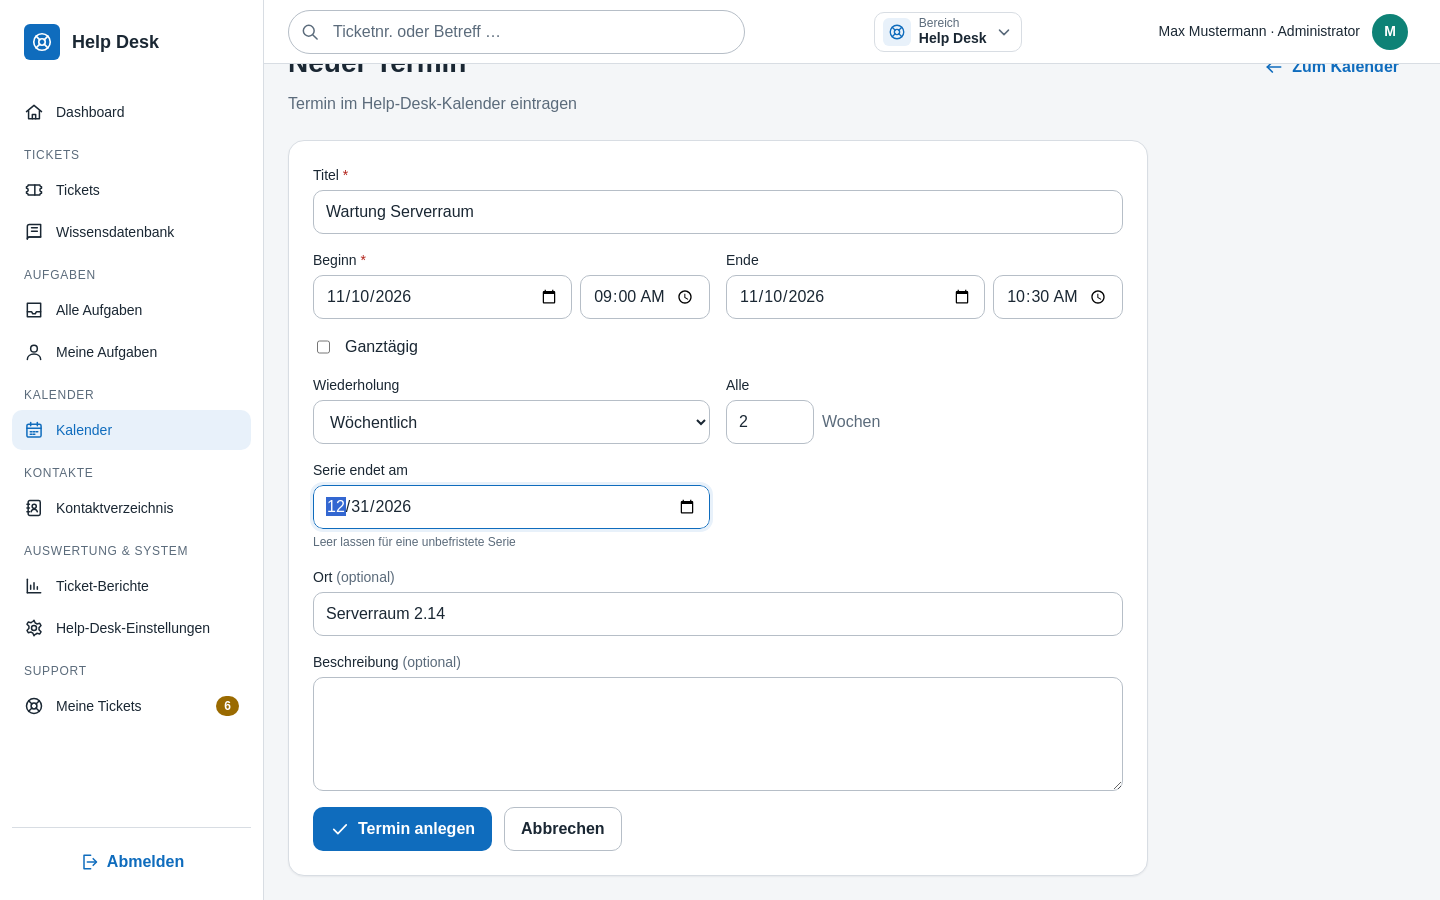
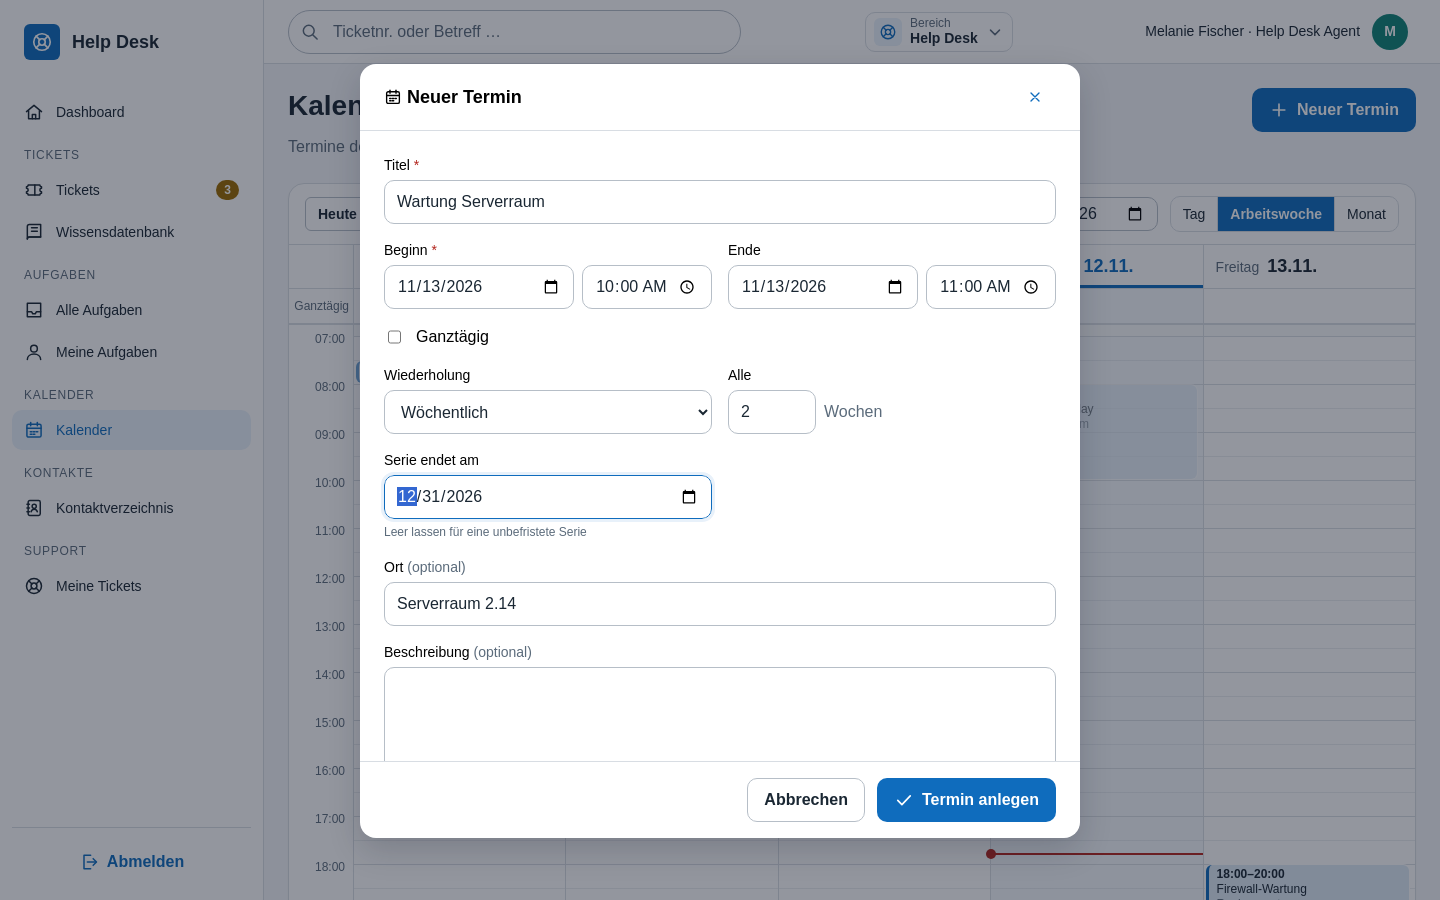
Help-Desk-Kalender: Neuer Termin als Overlay im Kalender

diff --git a/klinq/public/js/helpdesk-calendar.js b/klinq/public/js/helpdesk-calendar.js
@@ -1,6 +1,7 @@
 /*
  * Help-Desk-Kalender: Lage der Termine im Tagesraster, Jetzt-Linie, Formularhilfen (Ganztägig, Ende
- * nachführen), Checkliste („Checkliste anlegen“), automatisches Termin-Overlay nach Übernahme der Zuständigkeit und der Dialog
+ * nachführen), Checkliste („Checkliste anlegen“), Overlay „Neuer Termin“ im Kalender, automatisches Termin-Overlay
+ * nach Übernahme der Zuständigkeit und der Dialog
  * „Termin anlegen“ im Ticket mit Datumsvorschlägen aus dem Tickettext (KI).
  * Inline-Styles sind per CSP gesperrt; Positionen werden deshalb als CSS-Variablen über das CSSOM gesetzt.
  */
@@ -363,12 +364,64 @@
         update();
     }
 
+    // ------------------------------------------------------------------ Overlay „Neuer Termin“ im Kalender
+    function initNewDialog(dialog) {
+        const form = dialog.querySelector("form");
+        const field = function (name) { return form.querySelector('[name="' + name + '"]'); };
+        const allDay = form.querySelector("[data-hd-cal-allday]");
+        const recurrence = form.querySelector("[data-hd-cal-recurrence]");
+
+        function open(link) {
+            const params = new URL(link.href, window.location.href).searchParams;
+            const date = params.get("datum") || "";
+            const time = params.get("zeit") || "";
+            const isAllDay = params.get("ganztags") === "1";
+            ["title", "location", "description", "recurrence_until"].forEach(function (name) {
+                if (field(name)) { field(name).value = ""; }
+            });
+            if (field("recurrence_interval")) { field("recurrence_interval").value = "1"; }
+            if (recurrence) {
+                recurrence.value = "";
+                recurrence.dispatchEvent(new Event("change"));
+            }
+            form.querySelectorAll("[data-hd-cal-checklist-remove]").forEach(function (button) { button.click(); });
+            form.querySelectorAll(".has-error").forEach(function (el) { el.classList.remove("has-error"); });
+            form.querySelectorAll(".form-error").forEach(function (el) { el.remove(); });
+            field("date").value = date;
+            field("end_date").value = date;
+            field("start_time").value = isAllDay ? "" : (time || "09:00");
+            field("end_time").value = isAllDay ? "" : addMinutes(time || "09:00", 60);
+            allDay.checked = isAllDay;
+            allDay.dispatchEvent(new Event("change"));
+            dialog.showModal();
+            field("title").focus();
+        }
+
+        document.addEventListener("click", function (event) {
+            const link = event.target.closest("a[data-hd-cal-new]");
+            // Mittelklick und Strg-/Umschalt-Klick öffnen weiterhin die Formularseite.
+            if (!link || event.button !== 0 || event.ctrlKey || event.metaKey || event.shiftKey || event.altKey) { return; }
+            if (typeof dialog.showModal !== "function") { return; }
+            event.preventDefault();
+            open(link);
+        });
+
+        if (dialog.hasAttribute("data-dialog-autoopen")) {
+            // Nach einem Validierungsfehler das erste fehlerhafte Feld fokussieren (nach dem automatischen Öffnen).
+            window.setTimeout(function () {
+                const invalid = form.querySelector(".has-error input:not([type=hidden]), .has-error select, .has-error textarea");
+                if (invalid) { invalid.focus(); }
+            }, 0);
+        }
+    }
+
     // ------------------------------------------------------------------ Start
     document.querySelectorAll("[data-hd-cal]").forEach(initGrid);
     document.querySelectorAll("[data-hd-cal-when]").forEach(function (el) { initFields(el.closest("form") || el); });
     document.querySelectorAll("[data-hd-cal-series]").forEach(function (el) { initRecurrence(el.closest("form") || el); });
     document.querySelectorAll("[data-hd-cal-checklist]").forEach(initChecklist);
     document.querySelectorAll("[data-hd-cal-ticket]").forEach(initTicketDialog);
+    document.querySelectorAll("[data-hd-cal-new-dialog]").forEach(initNewDialog);
     document.querySelectorAll("dialog[data-dialog-autoopen]").forEach(function (dialog) {
         if (typeof dialog.showModal === "function") { dialog.showModal(); }
     });

diff --git a/klinq/resources/views/helpdesk/kalender/index.php b/klinq/resources/views/helpdesk/kalender/index.php
@@ -13,12 +13,18 @@ $eventClass = static fn (array $e): string => 'hd-cal-event' . (!empty($e['ticke
 $seriesMark = static fn (array $e): string => empty($e['is_series'])
     ? ''
     : '<span class="hd-cal-repeat" title="' . e('Serientermin: ' . Cal::recurrenceLabel($e)) . '">' . icon('refresh', 'icon icon-xs') . '</span>';
-/** Stand der Checkliste (offen: hervorgehoben, erledigt: Häkchen). */
-$checklistMark = static fn (array $e): string => (int) ($e['checklist_total'] ?? 0) === 0
-    ? ''
-    : '<span class="hd-cal-checklist-mark' . ((int) $e['checklist_confirmed'] < (int) $e['checklist_total'] ? ' is-open' : ' is-done') . '">'
-        . icon((int) $e['checklist_confirmed'] < (int) $e['checklist_total'] ? 'list' : 'check', 'icon icon-xs')
-        . (int) $e['checklist_confirmed'] . '/' . (int) $e['checklist_total'] . '</span>';
+/** Stand der Checkliste (offen: hervorgehoben, künftig: neutral, erledigt: Häkchen). */
+$checklistMark = static function (array $e): string {
+    $total = (int) ($e['checklist_total'] ?? 0);
+    if ($total === 0) {
+        return '';
+    }
+    $done = (int) $e['checklist_confirmed'] >= $total;
+    $state = $done ? 'is-done' : (!empty($e['checklist_future']) ? 'is-future' : 'is-open');
+
+    return '<span class="hd-cal-checklist-mark ' . $state . '">' . icon($done ? 'check' : 'list', 'icon icon-xs')
+        . (int) $e['checklist_confirmed'] . '/' . $total . '</span>';
+};
 $eventTitle = static function (array $e): string {
     $parts = [Cal::timeLabel($e), (string) $e['title']];
     if (!empty($e['location'])) {
@@ -31,7 +37,8 @@ $eventTitle = static function (array $e): string {
         $parts[] = 'Serie: ' . Cal::recurrenceLabel($e);
     }
     if ((int) ($e['checklist_total'] ?? 0) > 0) {
-        $parts[] = 'Checkliste ' . (int) $e['checklist_confirmed'] . '/' . (int) $e['checklist_total'] . ' bestätigt';
+        $parts[] = 'Checkliste ' . (int) $e['checklist_confirmed'] . '/' . (int) $e['checklist_total'] . ' bestätigt'
+            . (!empty($e['checklist_future']) ? ' (erst am Termintag abzuarbeiten)' : '');
     }
 
     return implode(' · ', $parts);
@@ -45,7 +52,7 @@ $hasSeries = array_filter($events, static fn (array $e): bool => !empty($e['is_s
     </div>
     <?php if ($canEdit): ?>
     <div class="page-actions">
-        <a class="btn btn-primary" href="<?= e($newUrl($isTodayInRange ? $today : $range['date'], '09:00')) ?>"><?= icon('plus') ?> Neuer Termin</a>
+        <a class="btn btn-primary" data-hd-cal-new href="<?= e($newUrl($isTodayInRange ? $today : $range['date'], '09:00')) ?>"><?= icon('plus') ?> Neuer Termin</a>
     </div>
     <?php endif; ?>
 </div>
@@ -88,7 +95,7 @@ $hasSeries = array_filter($events, static fn (array $e): bool => !empty($e['is_s
             <div class="<?= e($classes) ?>" role="gridcell">
                 <div class="hd-cal-month-day">
                     <a class="hd-cal-daynum" href="<?= e($url('tag', $day)) ?>" aria-label="<?= e(Cal::longDay($day)) ?>"><?= e(Cal::monthCellLabel($day)) ?></a>
-                    <?php if ($canEdit): ?><a class="hd-cal-add" href="<?= e($newUrl($day, '09:00')) ?>" aria-label="Neuer Termin am <?= e(Cal::longDay($day)) ?>" title="Neuer Termin"><?= icon('plus', 'icon icon-xs') ?></a><?php endif; ?>
+                    <?php if ($canEdit): ?><a class="hd-cal-add" data-hd-cal-new href="<?= e($newUrl($day, '09:00')) ?>" aria-label="Neuer Termin am <?= e(Cal::longDay($day)) ?>" title="Neuer Termin"><?= icon('plus', 'icon icon-xs') ?></a><?php endif; ?>
                 </div>
                 <?php foreach ($shown as $ev): ?>
                     <a class="<?= e($eventClass($ev)) ?><?= !empty($ev['all_day']) ? ' is-allday' : '' ?>" href="<?= e($eventUrl($ev)) ?>" title="<?= e($eventTitle($ev)) ?>">
@@ -122,7 +129,7 @@ $hasSeries = array_filter($events, static fn (array $e): bool => !empty($e['is_s
                     <?php foreach (Cal::onDay($events, $day, $timezone, true) as $ev): ?>
                         <a class="<?= e($eventClass($ev)) ?> is-allday" href="<?= e($eventUrl($ev)) ?>" title="<?= e($eventTitle($ev)) ?>"><?= $seriesMark($ev) ?><span class="hd-cal-event-title"><?= e($ev['title']) ?></span><?= $checklistMark($ev) ?></a>
                     <?php endforeach; ?>
-                    <?php if ($canEdit): ?><a class="hd-cal-allday-add" href="<?= e($newUrl($day)) ?>" aria-label="Ganztägigen Termin am <?= e(Cal::longDay($day)) ?> anlegen"></a><?php endif; ?>
+                    <?php if ($canEdit): ?><a class="hd-cal-allday-add" data-hd-cal-new href="<?= e($newUrl($day)) ?>" aria-label="Ganztägigen Termin am <?= e(Cal::longDay($day)) ?> anlegen"></a><?php endif; ?>
                 </div>
             <?php endforeach; ?>
         </div>
@@ -135,7 +142,7 @@ $hasSeries = array_filter($events, static fn (array $e): bool => !empty($e['is_s
                 <div class="hd-cal-day<?= $day === $today ? ' is-today' : '' ?>" data-day="<?= e($day) ?>">
                     <?php for ($h = 0; $h < 24; $h++): ?>
                         <?php if ($canEdit): ?>
-                            <a class="hd-cal-slot<?= $h < 7 || $h >= 19 ? ' is-off' : '' ?>" href="<?= e($newUrl($day, sprintf('%02d:00', $h))) ?>" aria-label="Neuer Termin <?= e(Cal::shortDay($day)) ?> <?= sprintf('%02d:00', $h) ?>" tabindex="-1"></a>
+                            <a class="hd-cal-slot<?= $h < 7 || $h >= 19 ? ' is-off' : '' ?>" data-hd-cal-new href="<?= e($newUrl($day, sprintf('%02d:00', $h))) ?>" aria-label="Neuer Termin <?= e(Cal::shortDay($day)) ?> <?= sprintf('%02d:00', $h) ?>" tabindex="-1"></a>
                         <?php else: ?>
                             <div class="hd-cal-slot<?= $h < 7 || $h >= 19 ? ' is-off' : '' ?>"></div>
                         <?php endif; ?>
@@ -163,4 +170,29 @@ $hasSeries = array_filter($events, static fn (array $e): bool => !empty($e['is_s
         <?php if ($events === []): ?><span>· Keine Termine in diesem Zeitraum</span><?php endif; ?>
     </div>
 </div>
+<?php if ($canEdit):
+    $values = $newValues;
+    $prefix = 'ncal';
+    $checklistItems = $newChecklistItems;
+?>
+<dialog id="hd-cal-new-dialog" class="dialog hd-cal-dialog" data-hd-cal-new-dialog aria-labelledby="hd-cal-new-title"<?= $newDialogOpen ? ' data-dialog-autoopen' : '' ?>>
+    <form method="post" action="/helpdesk/kalender" novalidate>
+        <?= csrf_field() ?>
+        <input type="hidden" name="dialog" value="neu">
+        <input type="hidden" name="back" value="<?= e($url($view, $range['date'])) ?>">
+        <div class="dialog-header">
+            <h2 id="hd-cal-new-title"><?= icon('calendar') ?> Neuer Termin</h2>
+            <button type="button" class="btn btn-ghost btn-sm" data-dialog-close aria-label="Schließen"><?= icon('x') ?></button>
+        </div>
+        <div class="dialog-body">
+            <?php include __DIR__ . '/_fields.php'; ?>
+            <?php include __DIR__ . '/_checklist_fields.php'; ?>
+        </div>
+        <div class="dialog-footer">
+            <button type="button" class="btn btn-secondary" data-dialog-close>Abbrechen</button>
+            <button type="submit" class="btn btn-primary"><?= icon('check') ?> Termin anlegen</button>
+        </div>
+    </form>
+</dialog>
+<?php endif; ?>
 <?php $innerContent = ob_get_clean(); include __DIR__ . '/../../partials/app_layout.php'; ?>

diff --git a/klinq/app/Controllers/Helpdesk/HelpdeskCalendarController.php b/klinq/app/Controllers/Helpdesk/HelpdeskCalendarController.php
@@ -43,6 +43,15 @@ final class HelpdeskCalendarController extends HelpdeskBaseController
         $today = $this->calendar->localToday();
         $date = $request->queryString('datum');
         $range = HelpdeskCalendarService::range($view, $date !== '' ? $date : $today);
+        $canEdit = $this->currentUser->can('helpdesk.update');
+
+        // Overlay „Neuer Termin“: nach einem Validierungsfehler mit der Eingabe erneut geöffnet.
+        $old = $_SESSION['_old_input'] ?? [];
+        $reopen = $canEdit && ($old['dialog'] ?? '') === 'neu';
+        $newValues = $this->newValues(in_array($today, $range['days'], true) ? $today : $range['date'], '09:00', false);
+        if ($reopen) {
+            $newValues = $this->withOld($newValues, $old);
+        }
 
         return $this->render('helpdesk.kalender.index', [
             'title' => 'Kalender',
@@ -52,7 +61,10 @@ final class HelpdeskCalendarController extends HelpdeskBaseController
             'today' => $today,
             'events' => $this->calendar->eventsIn($range),
             'timezone' => $this->calendar->timezone(),
-            'canEdit' => $this->currentUser->can('helpdesk.update'),
+            'canEdit' => $canEdit,
+            'newValues' => $newValues,
+            'newChecklistItems' => $reopen ? HelpdeskCalendarService::parseChecklist($old['checklist'] ?? []) : [],
+            'newDialogOpen' => $reopen,
             'scripts' => ['/js/helpdesk-calendar.js'],
         ]);
     }
@@ -62,30 +74,24 @@ final class HelpdeskCalendarController extends HelpdeskBaseController
         $this->currentUser->require('helpdesk.update');
         $date = $request->queryString('datum');
         $time = $request->queryString('zeit');
-        $values = [
-            'title' => '',
-            'date' => preg_match('/^\d{4}-\d{2}-\d{2}$/', $date) === 1 ? $date : $this->calendar->localToday(),
-            'start_time' => preg_match('/^([01]\d|2[0-3]):[0-5]\d$/', $time) === 1 ? $time : '09:00',
-            'all_day' => $request->queryString('ganztags') === '1' ? '1' : '0',
-        ];
-        $values['end_date'] = $values['date'];
-        // Ende eine Stunde nach Beginn, höchstens 23:59 (der Termin bleibt am selben Tag)
-        [$h, $m] = array_map('intval', explode(':', $values['start_time']));
-        $endMinutes = min(23 * 60 + 59, $h * 60 + $m + 60);
-        $values['end_time'] = $values['all_day'] === '1' ? '' : sprintf('%02d:%02d', intdiv($endMinutes, 60), $endMinutes % 60);
-        if ($values['all_day'] === '1') {
-            $values['start_time'] = '';
-        }
 
-        return $this->renderForm(null, $values);
+        return $this->renderForm(null, $this->newValues(
+            preg_match('/^\d{4}-\d{2}-\d{2}$/', $date) === 1 ? $date : $this->calendar->localToday(),
+            preg_match('/^([01]\d|2[0-3]):[0-5]\d$/', $time) === 1 ? $time : '09:00',
+            $request->queryString('ganztags') === '1'
+        ));
     }
 
     public function store(Request $request): Response
     {
         $event = null;
+        // Aus dem Overlay im Kalender: bei Fehlern zurück in dieselbe Ansicht, das Overlay öffnet sich erneut.
+        $errorRedirect = $request->string('dialog') === 'neu'
+            ? $this->safeBack($request, '/helpdesk/kalender')
+            : '/helpdesk/kalender/neu';
         $response = $this->attempt($request, function () use ($request, &$event): void {
             $event = $this->calendar->create($request->all());
-        }, '/helpdesk/kalender/neu');
+        }, $errorRedirect);
 
         return $response ?? $this->respond($request, 'Termin angelegt.', $this->calendarUrl($event));
     }
@@ -194,14 +200,7 @@ final class HelpdeskCalendarController extends HelpdeskBaseController
     private function renderForm(?array $event, array $values, string $occurrence = ''): Response
     {
         $old = $_SESSION['_old_input'] ?? [];
-        foreach (array_keys($values + ['location' => '', 'description' => '']) as $key) {
-            if (array_key_exists($key, $old)) {
-                $values[$key] = (string) $old[$key];
-            }
-        }
-        if ($old !== [] && !array_key_exists('all_day', $old)) {
-            $values['all_day'] = '0';
-        }
+        $values = $this->withOld($values, $old);
         // Bei Serienterminen wird beim Speichern gefragt, ob nur dieser Termin gilt (Vorgabe) oder die Serie.
         $isSeries = $event !== null && !empty($event['recurrence']);
         $values['occurrence'] = (string) ($old['occurrence'] ?? ($occurrence !== '' ? $occurrence : ($values['occurrence'] ?? '')));
@@ -221,6 +220,45 @@ final class HelpdeskCalendarController extends HelpdeskBaseController
             'canEdit' => $this->currentUser->can('helpdesk.update'),
             'scripts' => ['/js/helpdesk-calendar.js'],
         ]);
+    }
+
+    /**
+     * Vorgaben eines neuen Termins: Ende eine Stunde nach Beginn, höchstens 23:59 (der Termin bleibt am selben Tag).
+     * @return array<string,string>
+     */
+    private function newValues(string $date, string $time, bool $allDay): array
+    {
+        [$h, $m] = array_map('intval', explode(':', $time));
+        $endMinutes = min(23 * 60 + 59, $h * 60 + $m + 60);
+
+        return [
+            'title' => '',
+            'date' => $date,
+            'end_date' => $date,
+            'start_time' => $allDay ? '' : $time,
+            'end_time' => $allDay ? '' : sprintf('%02d:%02d', intdiv($endMinutes, 60), $endMinutes % 60),
+            'all_day' => $allDay ? '1' : '0',
+        ];
+    }
+
+    /**
+     * Formularwerte mit der alten Eingabe nach einem Validierungsfehler überschreiben.
+     * @param array<string,string> $values
+     * @param array<string,mixed> $old
+     * @return array<string,string>
+     */
+    private function withOld(array $values, array $old): array
+    {
+        foreach (array_keys($values + ['location' => '', 'description' => '', 'recurrence' => '', 'recurrence_interval' => '', 'recurrence_until' => '']) as $key) {
+            if (array_key_exists($key, $old)) {
+                $values[$key] = (string) $old[$key];
+            }
+        }
+        if ($old !== [] && !array_key_exists('all_day', $old)) {
+            $values['all_day'] = '0';
+        }
+
+        return $values;
     }
 
     /** @param array<string,mixed>|null $event */

diff --git a/klinq/docs/helpdesk.md b/klinq/docs/helpdesk.md
@@ -802,6 +802,13 @@ Er ist für alle Agenten sichtbar (`helpdesk.view`); anlegen, ändern und lösch
 - **Farben**: manuell eingetragene Termine in der Primärfarbe, Termine aus Tickets in der Akzentfarbe mit Ticketsymbol.
 - **Termin**: Titel, Beginn (Datum + Uhrzeit), Ende (Datum + Uhrzeit, ohne Endzeit eine Stunde), „Ganztägig“, Ort und
   Beschreibung; höchstens 31 Tage Dauer. Speicherung in UTC, Anzeige in `APP_TIMEZONE`.
+- **Neuer Termin als Overlay**: „Neuer Termin“, „+“ in der Monatsansicht, ein freier Stundenblock oder die
+  Ganztageszeile öffnen das Overlay **Neuer Termin** über dem Kalender, vorbelegt mit dem gewählten Tag und der
+  Uhrzeit. Bei fehlerhafter Eingabe öffnet sich das Overlay nach dem Absenden erneut mit Eingabe und Hinweisen; die
+  Kalenderansicht bleibt erhalten. Ohne JavaScript bzw. per Strg-/Mittelklick führen die Links weiterhin zur
+  Formularseite `/helpdesk/kalender/neu`.
+
+![Overlay „Neuer Termin“ über der Arbeitswoche](screenshots/helpdesk-kalender-neuer-termin-overlay.png)
 
 ![Kalender in der Ansicht Arbeitswoche mit Ganztageszeile, nebeneinanderliegenden Terminen und Jetzt-Linie](screenshots/helpdesk-kalender-arbeitswoche.png)
 
@@ -809,7 +816,7 @@ Er ist für alle Agenten sichtbar (`helpdesk.view`); anlegen, ändern und lösch
 
 ### Serientermine
 
-Im Formular „Neuer Termin“ und im Dialog **Termin anlegen** des Ticketdetails gibt es den Block **Wiederholung**.
+Im Overlay „Neuer Termin“ und im Dialog **Termin anlegen** des Ticketdetails gibt es den Block **Wiederholung**.
 Ohne Auswahl bleibt es ein Einzeltermin.
 
 - **Rhythmus**: Täglich, Wöchentlich, Monatlich oder Jährlich, jeweils mit Abstand („alle *n* Tage/Wochen/Monate/Jahre“,
@@ -873,13 +880,27 @@ Beim Anlegen oder Bearbeiten eines Termins (auch im Dialog „Termin anlegen“ 
 ignoriert). Der bearbeitende Agent hakt jeden Punkt in der Termindetailansicht mit **Bestätigt** ab; eine Bestätigung
 lässt sich zurücknehmen.
 
+![Overlay „Neuer Termin“ mit geöffneter Checkliste und zwei Punkten](screenshots/helpdesk-kalender-checkliste-anlegen.png)
+
+![Termindetail mit Checkliste: zwei Punkte bestätigt mit Agent und Zeitpunkt, ein offener Punkt mit Knopf „Bestätigt“](screenshots/helpdesk-kalender-checkliste-abhaken.png)
+
 - **Sichtbarkeit**: Die Checkliste samt Stand („2/3 bestätigt“ bzw. „Erledigt“) ist für alle mit Lesezugriff auf den
   Help Desk sichtbar – je Punkt mit Agent und Zeitpunkt der Bestätigung. Kalenderansichten und das Dashboard zeigen
-  bei Terminen mit Checkliste ein Symbol mit dem Stand.
+  bei Terminen mit Checkliste ein Symbol mit dem Stand: offen hervorgehoben, erledigt mit Häkchen, bei künftigen
+  Terminen neutral.
+
+  ![Erledigte Checkliste mit den bestätigenden Agenten je Punkt](screenshots/helpdesk-kalender-checkliste-erledigt.png)
+
+  ![Arbeitswoche mit Checklisten-Stand an den Terminen](screenshots/helpdesk-kalender-checkliste-woche.png)
+
+  ![Monatsansicht: Serientermin mit erledigter Checkliste am Montag, künftige Termine der Serie neutral mit 0/3](screenshots/helpdesk-kalender-checkliste-monat.png)
 - **Serientermine**: Die Punkte werden einmal für die ganze Serie festgelegt, abgehakt wird aber je Termin. Eine
   Checkliste gilt nur für den Termin, über den sie aufgerufen wurde („Gilt nur für den Termin am …“); verschobene
   Einzeltermine behalten ihren Stand.
-- **Zukunft**: Checklisten von Terminen, die nach dem heutigen Tag liegen, können noch nicht abgearbeitet werden.
+- **Zukunft**: Checklisten von Terminen, die nach dem heutigen Tag liegen, können noch nicht abgearbeitet werden; die
+  Punkte erscheinen neutral mit einem Hinweis.
+
+  ![Künftiger Termin einer Serie: Checkliste gesperrt mit Hinweis](screenshots/helpdesk-kalender-checkliste-serie-zukunft.png)
 - **Ändern der Punkte**: Umbenannte Punkte behalten ihre Bestätigungen, entfernte Punkte verlieren sie. Wird ein
   Einzeltermin nachträglich zur Serie, gelten seine Bestätigungen für den ersten Termin der Serie weiter.
 - Abhaken und Zurücknehmen erfordern `helpdesk.update` und werden im Audit-Log protokolliert.
@@ -910,7 +931,9 @@ verfügbar, sodass aus einem Ticket direkt eine Serie entstehen kann.
 
 Routen: `GET /helpdesk/kalender`, `GET /helpdesk/kalender/neu`, `POST /helpdesk/kalender`, `GET|POST /helpdesk/kalender/{id}`,
 `POST /helpdesk/kalender/{id}/loeschen`, `POST /helpdesk/kalender/{id}/checkliste`,
-`GET /helpdesk/tickets/{id}/termin-vorschlaege` (JSON), `POST /helpdesk/tickets/{id}/termin`. Beim Aufruf eines Serientermins markiert `?termin=JJJJ-MM-TT` den gewählten Tag
+`GET /helpdesk/tickets/{id}/termin-vorschlaege` (JSON), `POST /helpdesk/tickets/{id}/termin`. Das Overlay sendet
+`dialog=neu` und `back` (aktuelle Kalenderansicht) mit; bei Validierungsfehlern leitet `POST /helpdesk/kalender` dorthin
+zurück und das Overlay öffnet sich erneut. Beim Aufruf eines Serientermins markiert `?termin=JJJJ-MM-TT` den gewählten Tag
 (`GET /helpdesk/kalender/{id}?termin=2026-11-24`), das Formular gibt ihn als `occurrence` und den Umfang als `scope`
 (`series` oder `occurrence`) zurück. Tabelle `helpdesk_calendar_events` (Migration 038, Serienspalten aus Migration 043), Checklisten in
 `helpdesk_calendar_checklist_items`/`helpdesk_calendar_checklist_confirmations` (Migration 044).
